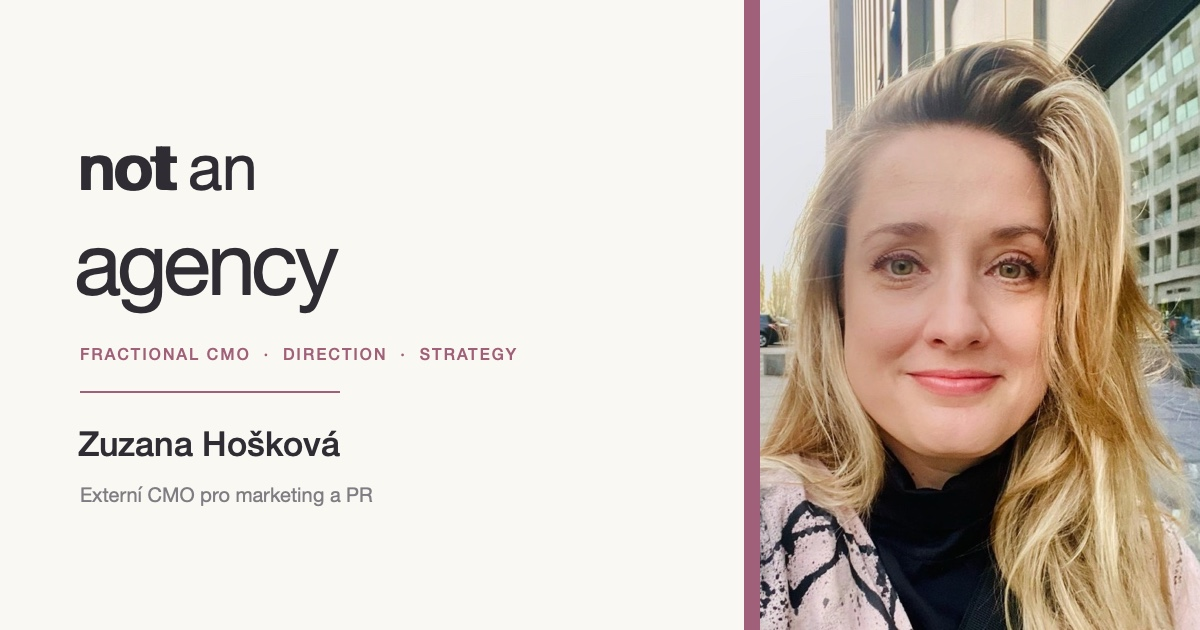
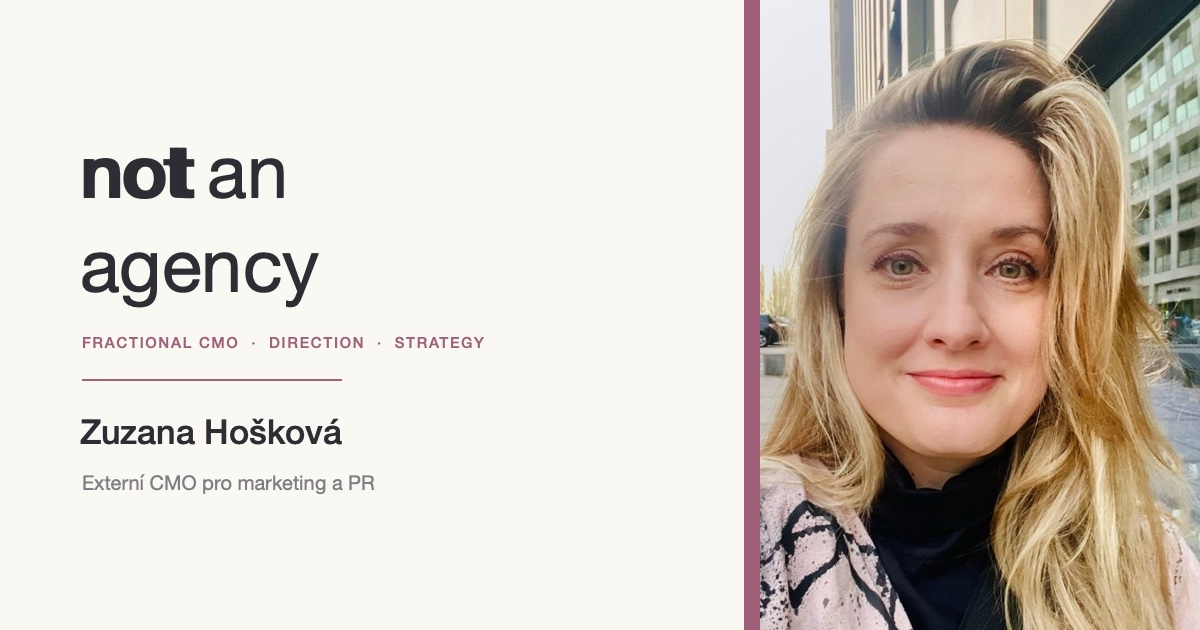
loga

diff --git a/index.html b/index.html
@@ -252,11 +252,26 @@
     .proof-ticker-separator { color: #e9c9d4; font-size: 18px; }
     .proof-ticker:hover .proof-ticker-track, .proof-ticker:focus-within .proof-ticker-track { animation-play-state: paused; }
     @keyframes proof-scroll { to { transform: translateX(-50%); } }
-    .proof-label { display: block; margin-bottom: 19px; color: var(--muted); font-size: 9px; font-weight: 700; letter-spacing: .13em; text-transform: uppercase; }
-    .proof-logos { display: grid; grid-template-columns: repeat(4, minmax(0, 1fr)); align-items: center; gap: 20px 28px; color: var(--ink); }
-    .client-logo { display: flex; min-height: 62px; align-items: center; justify-content: center; color: var(--ink); text-align: center; text-decoration: none; }
-    .client-logo:focus-visible { outline: 2px solid var(--rose); outline-offset: 5px; }
-    .client-logo img { width: auto; max-width: min(100%, 150px); max-height: 42px; object-fit: contain; filter: brightness(0); }
+    .proof-label { display: block; margin-bottom: 23px; color: var(--muted); font-size: 9px; font-weight: 700; letter-spacing: .13em; text-transform: uppercase; }
+    .proof-logos { display: grid; grid-template-columns: repeat(12, minmax(0, 1fr)); grid-template-rows: repeat(6, minmax(36px, auto)); align-items: stretch; gap: 18px 14px; color: var(--ink); }
+    .client-logo { display: flex; min-width: 0; min-height: 76px; align-items: center; justify-content: center; padding: 14px; border: 1px solid var(--line); background: #fffdfa; color: var(--ink); text-align: center; text-decoration: none; transition: transform .25s ease, box-shadow .25s ease, border-color .25s ease, background .25s ease; }
+    .client-logo:nth-child(4n + 2), .client-logo:nth-child(4n + 3) { background: var(--soft); }
+    .client-logo:hover { z-index: 1; transform: translateY(-4px) rotate(0deg) !important; border-color: #c9a9b7; box-shadow: 0 12px 24px rgb(36 33 38 / 9%); }
+    .client-logo:focus-visible { outline: 2px solid var(--rose); outline-offset: 3px; }
+    .client-logo img { width: auto; max-width: min(100%, 150px); max-height: 42px; object-fit: contain; filter: brightness(0); transition: transform .25s ease; }
+    .client-logo:hover img { transform: scale(1.04); }
+    .client-logo-dekka { grid-area: 1 / 1 / span 2 / span 3; transform: rotate(-1deg); }
+    .client-logo-mavlast { grid-area: 1 / 4 / span 2 / span 2; transform: rotate(1deg); }
+    .client-logo-story { grid-area: 1 / 6 / span 2 / span 3; transform: rotate(-.6deg); }
+    .client-logo-pride { grid-area: 1 / 9 / span 2 / span 4; transform: rotate(.7deg); }
+    .client-logo-jatka { grid-area: 3 / 1 / span 2 / span 2; transform: rotate(.8deg); }
+    .client-logo-cka { grid-area: 3 / 3 / span 2 / span 4; transform: rotate(-.5deg); }
+    .client-logo-award { grid-area: 3 / 7 / span 2 / span 3; transform: rotate(.6deg); }
+    .client-logo-fotograf { grid-area: 3 / 10 / span 2 / span 3; transform: rotate(-.8deg); }
+    .client-logo-bwt { grid-area: 5 / 1 / span 2 / span 3; transform: rotate(.6deg); }
+    .client-logo-lonely { grid-area: 5 / 4 / span 2 / span 3; transform: rotate(-.7deg); }
+    .client-logo-marianne { grid-area: 5 / 7 / span 2 / span 3; transform: rotate(.5deg); }
+    .client-logo-home { grid-area: 5 / 10 / span 2 / span 3; transform: rotate(-.5deg); }
     .client-logo-dekka img { max-height: 42px; filter: grayscale(1); }
     .client-logo-cka img { width: min(260px, 100%); max-width: min(100%, 260px); max-height: 34px; }
     .client-logo-award img { width: min(220px, 100%); max-width: min(100%, 220px); max-height: 40px; filter: none; }
@@ -382,8 +397,6 @@
     .contact-name { margin: 0 0 2px; font-size: 15px; }
     .contact-invoice { margin: 4px 0 0; color: var(--muted); font-size: 11px; font-weight: 400; line-height: 1.7; }
     .contact-invoice + .contact-invoice { margin-top: -7px; }
-    .contact-action-group { display: flex; flex: 0 0 auto; align-items: flex-start; gap: 24px; }
-    .contact-action { flex: 0 0 auto; }
     .contact-brand { gap: 9px; }
     .contact-brand .brand-mark { font-size: clamp(20px, 2.2vw, 25px); }
     .contact-brand .brand-caption { font-size: 7px; }
@@ -423,7 +436,9 @@
       .hero-copy { max-width: 470px; }
       .portrait-wrap { width: min(83%, 410px); margin: 0 auto; }
       .proof-ticker { padding: 16px 0; }
-      .proof-logos { grid-template-columns: repeat(3, minmax(0, 1fr)); gap: 18px 20px; }
+      .proof-logos { grid-template-columns: repeat(6, minmax(0, 1fr)); grid-template-rows: none; grid-auto-rows: minmax(82px, auto); gap: 14px 12px; }
+      .client-logo { grid-area: auto !important; grid-column: span 2; min-height: 78px; transform: none !important; }
+      .client-logo-cka, .client-logo-award { grid-column: span 3; }
       .process-list { grid-template-columns: 1fr; gap: 34px; }
       .process-list li:not(:last-child)::after { top: auto; right: 50%; bottom: -30px; transform: translateX(50%); content: "↓"; }
       .about-section { padding: 72px 0; }
@@ -436,7 +451,6 @@
       .result-card:nth-child(n) { grid-column: auto; }
       .approach { padding: 68px 0; }
       .contact { align-items: flex-start; flex-direction: column; padding: 40px 20px; }
-      .contact-action-group { width: 100%; align-items: flex-start; justify-content: space-between; gap: 16px; }
       .contact-brand { gap: 7px; }
       .contact-brand .brand-mark { font-size: 20px; }
       .contact-brand .brand-caption { padding-left: 6px; font-size: 6px; }
@@ -453,7 +467,11 @@
       .about-copy h2 { margin-bottom: 20px; }
       .about-copy p { font-size: 13px; }
       .project-image { aspect-ratio: 1.35; }
-      .proof-logos { grid-template-columns: repeat(2, minmax(0, 1fr)); gap: 16px; }
+      .proof-logos { grid-template-columns: repeat(2, minmax(0, 1fr)); grid-auto-rows: minmax(78px, auto); gap: 12px 9px; }
+      .client-logo { grid-area: auto !important; grid-column: span 1; min-height: 78px; padding: 10px; }
+      .client-logo-cka, .client-logo-award { grid-column: span 2; }
+      .client-logo-dekka img { max-width: 125px; }
+      .client-logo-cka img, .client-logo-award img, .client-logo-fotograf img { max-width: min(100%, 190px); }
       .approach-story { margin: 30px 0 36px; padding: 8px 0 16px; font-size: clamp(32px, 9vw, 48px); }
       .service-grid { grid-template-columns: 1fr; }
       .service-card { min-height: 0; padding: 24px 0 22px 42px; }
@@ -760,13 +778,10 @@
           <p class="contact-invoice"><span data-i18n="registeredAddressLabel">Registered address</span>: Praha – Vinohrady, Kouřimská 2351/12, 130 00 Praha 3</p>
         </div>
       </div>
-      <div class="contact-action-group">
-        <a class="brand contact-brand" href="#" aria-label="Not an Agency home" data-i18n-aria="homeLabel">
-          <span class="brand-mark" aria-hidden="true"><span><b>not</b> an</span><strong>agency</strong></span>
-          <span class="brand-caption">FRACTIONAL CMO<br>DIRECTION<br>STRATEGY</span>
-        </a>
-        <a class="button contact-action" href="mailto:zuzana@notanagency.cz?subject=Let's%20talk%20about%20fractional%20CMO%20support"><span data-i18n="contactCta">Tell me about it</span> <span aria-hidden="true">↗</span></a>
-      </div>
+      <a class="brand contact-brand" href="#" aria-label="Not an Agency home" data-i18n-aria="homeLabel">
+        <span class="brand-mark" aria-hidden="true"><span><b>not</b> an</span><strong>agency</strong></span>
+        <span class="brand-caption">FRACTIONAL CMO<br>DIRECTION<br>STRATEGY</span>
+      </a>
     </section>
   </main>
 
@@ -922,7 +937,6 @@
         contactEyebrow: "Get in touch",
         contactTitle: "Have a good feeling<br>about <em>what's next?</em>",
         contactCopy: "Tell me what you're working on, what feels stuck, or what you're excited to try. We'll take it from there.",
-        contactCta: "Tell me about it",
         emailLink: "Email",
         phoneAria: "Call Zuzana Hošková",
         linkedinLink: "LinkedIn",
@@ -1054,7 +1068,6 @@
         contactEyebrow: "Kontakt",
         contactTitle: "Těšíte se na to,<br><em>co přijde dál?</em>",
         contactCopy: "Napište mi, na čem pracujete, co vás brzdí nebo co chcete zkusit. Společně najdeme další krok.",
-        contactCta: "Napište mi",
         emailLink: "E-mail",
         phoneAria: "Zavolat Zuzaně Hoškové",
         linkedinLink: "LinkedIn",
@@ -1070,7 +1083,6 @@
     const contactFab = document.querySelector(".contact-fab");
     const contactFabToggle = document.querySelector(".contact-fab-toggle");
     const contactMethods = document.querySelector(".contact-methods");
-    const contactLink = document.querySelector(".contact-action");
     const heroSection = document.querySelector(".hero");
     const contactSection = document.querySelector("#contact");
     if ("IntersectionObserver" in window) {
@@ -1148,9 +1160,6 @@
       document.querySelectorAll("[data-i18n-aria]").forEach((element) => {
         element.setAttribute("aria-label", copy[element.dataset.i18nAria]);
       });
-      contactLink.href = language === "cs"
-        ? "mailto:zuzana@notanagency.cz?subject=Pojdme%20probrat%20spolupraci%20externi%20CMO"
-        : "mailto:zuzana@notanagency.cz?subject=Let's%20talk%20about%20fractional%20CMO%20support";
       languageButtons.forEach((button) => {
         button.setAttribute("aria-pressed", String(button.dataset.language === language));
       });
